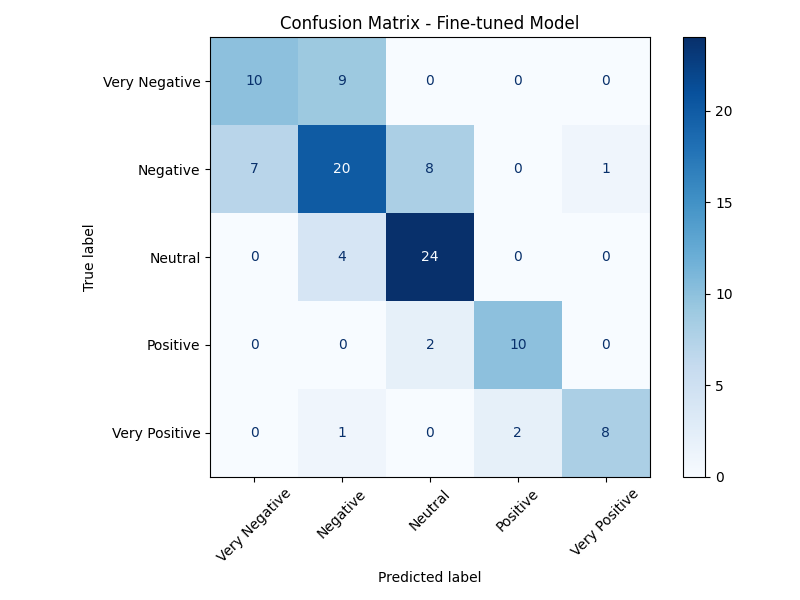
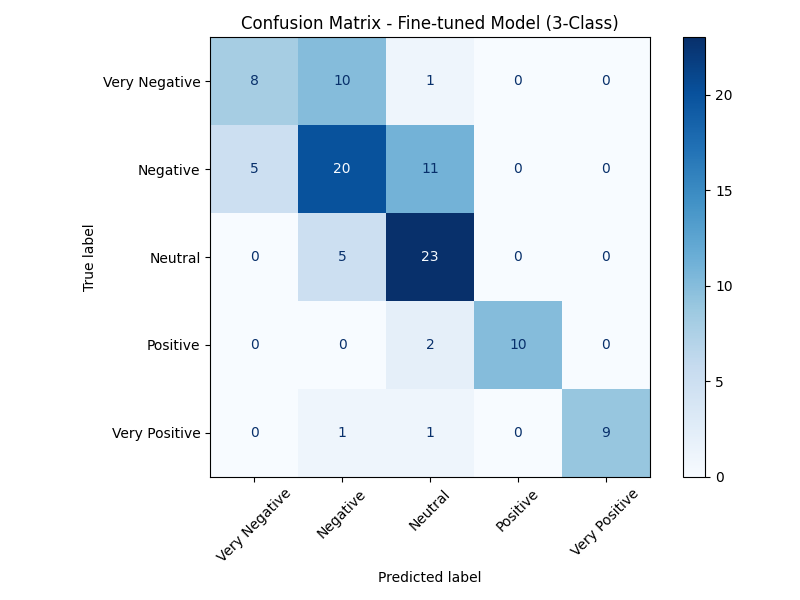
Update training scripts and model configurations for improved performance and error handling

diff --git a/train_finetuned.py b/train_finetuned.py
@@ -1,4 +1,4 @@
-from transformers import AutoModelForSequenceClassification, AutoTokenizer, Trainer, TrainingArguments
+from transformers import AutoModelForSequenceClassification, AutoTokenizer, Trainer, TrainingArguments, EarlyStoppingCallback
 from datasets import Dataset, ClassLabel
 import pandas as pd
 import numpy as np
@@ -10,13 +10,18 @@ import os
 
 # Configuration
 USE_3_CLASSES = False
-MODEL_NAME = "distilbert-base-uncased"
+MODEL_NAME = "microsoft/deberta-v3-base"
 STAGE1_MODEL_DIR = "./models/stage1_domain_adapted"
 
 # Load augmented data
+if not os.path.exists('xpi_labeled_data_augmented.csv'):
+    print("Error: xpi_labeled_data_augmented.csv not found.")
+    exit()
+
 df = pd.read_csv('xpi_labeled_data_augmented.csv')
 
 if USE_3_CLASSES:
+    # Merge: 0&1 -> 0 (Negative), 2 -> 1 (Neutral), 3&4 -> 2 (Positive)
     label_mapping = {0: 0, 1: 0, 2: 1, 3: 2, 4: 2}
     df['label'] = df['label'].map(label_mapping)
     NUM_LABELS = 3
@@ -40,19 +45,26 @@ dataset = Dataset.from_pandas(df[['text', 'label']])
 # Cast label column to ClassLabel for stratified splitting
 dataset = dataset.cast_column('label', ClassLabel(names=LABEL_NAMES))
 
+# Split dataset
 dataset = dataset.train_test_split(test_size=0.2, seed=42, stratify_by_column='label')
 
 # Load tokenizer and model
-# Try to load from Stage 1 model, fall back to base model if not available
 if os.path.exists(STAGE1_MODEL_DIR):
     print(f"\nLoading Stage 1 pre-trained model from {STAGE1_MODEL_DIR}...")
     tokenizer = AutoTokenizer.from_pretrained(STAGE1_MODEL_DIR)
-    model = AutoModelForSequenceClassification.from_pretrained(STAGE1_MODEL_DIR, num_labels=NUM_LABELS)
-    print("✓ Successfully loaded Stage 1 model!")
+    
+    # --- CRITICAL FIX: ignore_mismatched_sizes=True ---
+    # This allows us to load a 5-class model into a 3-class structure
+    # The body will load, but the final head (classifier) will be reset
+    model = AutoModelForSequenceClassification.from_pretrained(
+        STAGE1_MODEL_DIR, 
+        num_labels=NUM_LABELS,
+        ignore_mismatched_sizes=True 
+    )
+    print("✓ Successfully loaded Stage 1 model (Head reset for new label count)!")
 else:
     print(f"\nStage 1 model not found at {STAGE1_MODEL_DIR}")
     print(f"Falling back to base model: {MODEL_NAME}")
-    print("Note: Run train_stage1_composite.py first for better results")
     tokenizer = AutoTokenizer.from_pretrained(MODEL_NAME)
     model = AutoModelForSequenceClassification.from_pretrained(MODEL_NAME, num_labels=NUM_LABELS)
 
@@ -76,8 +88,10 @@ class WeightedTrainer(Trainer):
         outputs = model(**inputs)
         logits = outputs.logits
         
-        weights = self.class_weights.to(logits.device)
-        loss_fn = torch.nn.CrossEntropyLoss(weight=weights)
+        if self.class_weights.device != logits.device:
+            self.class_weights = self.class_weights.to(logits.device)
+            
+        loss_fn = torch.nn.CrossEntropyLoss(weight=self.class_weights)
         loss = loss_fn(logits, labels)
         
         return (loss, outputs) if return_outputs else loss
@@ -94,20 +108,23 @@ def compute_metrics(eval_pred):
         'weighted_f1': report['weighted avg']['f1-score']
     }
 
+# Training Arguments
 training_args = TrainingArguments(
     output_dir='./results',
-    num_train_epochs=10,
-    per_device_train_batch_size=16,
-    per_device_eval_batch_size=16,
+    num_train_epochs=15,
+    per_device_train_batch_size=8,
+    per_device_eval_batch_size=8,
     eval_strategy="epoch",
     save_strategy="epoch",
+    learning_rate=2e-5,
+    weight_decay=0.1,
     load_best_model_at_end=True,
     metric_for_best_model='macro_f1',
     greater_is_better=True,
-    warmup_steps=50,
-    weight_decay=0.01,
+    warmup_ratio=0.1,
     logging_dir='./logs',
     logging_steps=10,
+    save_total_limit=2,
 )
 
 trainer = WeightedTrainer(
@@ -117,6 +134,7 @@ trainer = WeightedTrainer(
     train_dataset=dataset['train'],
     eval_dataset=dataset['test'],
     compute_metrics=compute_metrics,
+    callbacks=[EarlyStoppingCallback(early_stopping_patience=3)]
 )
 
 print("\nStarting training...")
@@ -137,12 +155,13 @@ cm = confusion_matrix(true_labels, pred_labels)
 fig, ax = plt.subplots(figsize=(8, 6))
 disp = ConfusionMatrixDisplay(confusion_matrix=cm, display_labels=LABEL_NAMES)
 disp.plot(ax=ax, cmap='Blues', xticks_rotation=45)
-plt.title('Confusion Matrix - Fine-tuned Model')
+plt.title('Confusion Matrix - Fine-tuned Model (3-Class)')
 plt.tight_layout()
 plt.savefig('confusion_matrix_finetuned.png')
 print("\nConfusion matrix saved to confusion_matrix_finetuned.png")
 
 # Save model
+print(f"\nSaving best model to ./xpi_sentiment_model...")
 trainer.save_model('./xpi_sentiment_model')
 tokenizer.save_pretrained('./xpi_sentiment_model')
-print("\nModel saved to ./xpi_sentiment_model")
+print("Model saved successfully.")

diff --git a/train_stage1_composite.py b/train_stage1_composite.py
@@ -9,7 +9,7 @@ import os
 INPUT_DIR = "./data/composite_dataset"
 OUTPUT_DIR = "./models/stage1_domain_adapted"
 LOSS_GRAPH_FILE = "stage1_training_loss.png"
-MODEL_NAME = "microsoft/deberta-v3-small"
+MODEL_NAME = "microsoft/deberta-v3-base"
 NUM_LABELS = 5
 
 def compute_metrics(eval_pred):
@@ -37,7 +37,7 @@ def main():
     model = AutoModelForSequenceClassification.from_pretrained(MODEL_NAME, num_labels=NUM_LABELS)
 
     def tokenize(batch):
-        return tokenizer(batch['text'], padding="max_length", truncation=True, max_length=128)
+        return tokenizer(batch['text'], padding="max_length", truncation=True, max_length=256)
 
     print("Tokenizing dataset...")
     tokenized_dataset = dataset.map(tokenize, batched=True)
@@ -45,15 +45,15 @@ def main():
     # 3. Training Arguments
     training_args = TrainingArguments(
         output_dir=OUTPUT_DIR,
-        num_train_epochs=3,
+        num_train_epochs=5,
         per_device_train_batch_size=16,
         per_device_eval_batch_size=16,
         eval_strategy="epoch",
         save_strategy="epoch",
         load_best_model_at_end=True,
-        fp16=True,
-        learning_rate=2e-5,
-        weight_decay=0.01,
+        fp16=False,
+        learning_rate=1e-5,
+        weight_decay=0.1,
         logging_steps=50, # Log frequently for the graph
         save_total_limit=2,
     )
